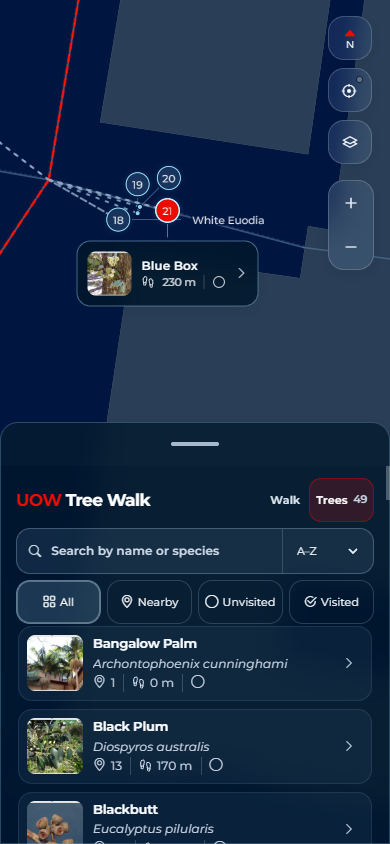
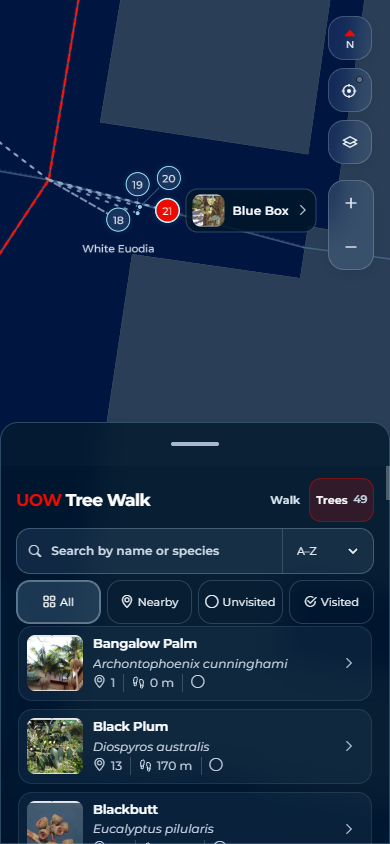
UI

Changed region(s): [[0.1846, 0.2773, 0.6769, 0.3697], [0.4615, 0.2156, 0.7385, 0.2773], [0.7692, 0.2464, 0.8, 0.2773]]

diff --git a/src/glass.css b/src/glass.css
@@ -21,7 +21,7 @@ html { color-scheme:dark; }
 body.outdoor,body[data-map-theme=aerial] {
     --glass-filter:blur(12px) saturate(120%) brightness(.30);
 }
-#ui-panel,#map-tools,#walk-menu,.tree-focus-label,#arrival,#app-status,
+#ui-panel,#map-tools,#walk-menu,#arrival,#app-status,
 .map-controls>:is(.icon-btn,#resume-follow),.map-zoom-group {
     background:var(--glass-fill); border:1px solid var(--glass-edge);
     border-radius:var(--radius); box-shadow:var(--glass-shadow);
@@ -35,8 +35,8 @@ body.outdoor,body[data-map-theme=aerial] {
 .sheet-layout #map-tools { border-radius:var(--radius); }
 #ui-panel .panel-header { background:rgba(0,22,65,.32); }
 .sheet-layout #drag-handle { background:#a8b9ce; }
-#walk-home .eyebrow { color:#d4e0ed; font-weight:500; }
-#walk-home h1 { color:var(--text-main); }
+.walk-trees-header .eyebrow { color:#d4e0ed; font-weight:500; margin:0 0 .375rem; }
+.walk-trees-header h1 { color:var(--text-main); }
 .home-description,.walk-note { color:var(--text-muted); }
 /* Flatten the existing estimate wrapper visually, retaining every metric's
    accessible name. Flex wrapping accommodates mobile and enlarged text. */
@@ -133,17 +133,10 @@ input::placeholder { color:var(--text-muted); opacity:1; }
 .compact-map .map-zoom-group .icon-btn:first-child { border-radius:var(--radius) 0 0 var(--radius); }
 .compact-map .map-zoom-group .icon-btn:last-child { border-radius:0 var(--radius) var(--radius) 0; }
 .map-controls button::after { background:rgba(0,22,65,.78); border-radius:.875rem; border-color:var(--glass-edge); }
-.tree-focus-label:is(:hover,:active) { background:var(--glass-hover); }
-.tree-focus-label { padding:.375rem .625rem; border-radius:.875rem; text-align:start; }
-.focus-label-content { display:grid; gap:.125rem; min-inline-size:0; }
-.focus-label-name { font-size:.765625rem; line-height:1.3; font-weight:600; }
-.tree-focus-label .marker-stats { display:flex; flex-wrap:wrap; align-items:center; gap:.25rem .5rem; margin:0; padding:0; background:transparent; color:rgba(255,255,255,.78); font-size:.65625rem; font-weight:500; line-height:1.25; }
-.marker-stat { display:inline-flex; align-items:center; gap:.5rem; white-space:nowrap; }
-.marker-stat+.marker-stat { border-inline-start:1px solid rgba(255,255,255,.2); padding-inline-start:.5rem; }
-.marker-stats .lucide-icon { inline-size:.8125rem; block-size:.8125rem; }
-.metric-compact { display:none; }
-.tree-focus-label[data-compact=true] .metric-full { display:none; }
-.tree-focus-label[data-compact=true] .metric-compact { display:inline; }
+.tree-focus-label:is(:hover,:active) { background:rgba(8,35,61,.94); }
+.tree-focus-label { gap:.5rem; padding:.25rem .375rem; border:1px solid rgba(154,200,229,.28); border-radius:.75rem; background:rgba(0,22,41,.85); color:var(--text-main); box-shadow:0 .125rem .5rem rgba(0,10,30,.1); text-align:start; }
+.focus-label-content { display:block; flex:1 1 auto; min-inline-size:0; max-inline-size:clamp(8rem,38vi,15rem); }
+.focus-label-name { display:block; overflow:hidden; text-overflow:ellipsis; white-space:nowrap; font-size:.765625rem; line-height:1.3; font-weight:600; }
 .lucide-tree-pine { -webkit-mask:url(icons/tree-pine.svg) center/contain no-repeat; mask:url(icons/tree-pine.svg) center/contain no-repeat; }
 .lucide-circle-check { -webkit-mask:url(icons/circle-check.svg) center/contain no-repeat; mask:url(icons/circle-check.svg) center/contain no-repeat; }
 .lucide-circle { -webkit-mask:url(icons/circle.svg) center/contain no-repeat; mask:url(icons/circle.svg) center/contain no-repeat; }
@@ -226,14 +219,12 @@ body[data-walk-view=browse] #ui-panel {
     -webkit-backdrop-filter:blur(12px) saturate(120%); backdrop-filter:blur(12px) saturate(120%);
 }
 body[data-walk-view=browse] .panel-header { display:none; }
-.browser-topline { display:flex; flex-wrap:wrap; align-items:center; justify-content:space-between; gap:.75rem; }
-.browser-brand { flex:1 1 9rem; min-inline-size:0; }
-.browser-brand h2 { margin:0; color:#fff; font-size:clamp(.875rem,4.375cqi,1.3125rem); line-height:1.3; letter-spacing:-.035em; }
-.browser-brand h2>span { color:#ed0a00; }
-#walk-home h1>span { color:#ed0a00; }
-#home-navigation-slot:not(:empty)~#browse-trees { display:none; }
+.walk-trees-header { display:flex; flex-wrap:wrap; align-items:center; justify-content:space-between; gap:.75rem; }
+.walk-trees-brand { flex:1 1 9rem; min-inline-size:0; }
+.walk-trees-header h1>span { color:#ed0a00; }
+#home-header-slot:not(:empty)~#browse-trees { display:none; }
 body[data-walk-view=home] #browser-tree-total { display:none; }
-.browser-brand p { margin:.375rem 0 0; font-size:.765625rem; color:#c6d8e5; line-height:1.4; }
+.walk-trees-header .home-description { margin:.375rem 0 0; color:#c6d8e5; }
 .browser-navigation { display:flex; gap:.375rem; }
 .browser-navigation button { min-inline-size:var(--touch); min-block-size:var(--touch); padding:.375rem .625rem; background:transparent; border:1px solid transparent; border-radius:.75rem; color:#dce9f2; font-size:.765625rem; font-weight:600; }
 .browser-navigation button:hover { background:rgba(255,255,255,.07); }
@@ -272,16 +263,10 @@ body[data-walk-view=browse] #stops-list .tree-card { grid-template-columns:clamp
 .card-details:hover { background:rgba(255,255,255,.06); color:#fff; }
 .map-controls .map-compass { display:flex; flex-direction:column; justify-content:center; align-items:center; gap:0; font-size:.6015625rem; line-height:1; }
 .map-compass>.bi { color:#ed0a00; font-size:.875rem; transform:rotate(var(--map-bearing,0deg)); transition:transform .18s ease; }
-.focus-label-media { display:grid; flex:none; inline-size:clamp(2.75rem,8vi,3.25rem); aspect-ratio:1; border-radius:.5rem; overflow:hidden; background:rgba(160,193,210,.12); }
+.focus-label-media { display:grid; flex:none; inline-size:clamp(2rem,6vi,2.375rem); aspect-ratio:1; border-radius:.5rem; overflow:hidden; background:rgba(160,193,210,.12); }
 .focus-label-media>* { grid-area:1/1; }
 .focus-label-media>.bi { place-self:center; color:#b7d1be; }
 .focus-label-media img { inline-size:100%; block-size:100%; object-fit:cover; }
-.tree-focus-label[data-preview=true] { gap:.625rem; padding:.625rem; border:1px solid rgba(154,200,229,.45); background:rgba(0,22,41,.85); }
-.tree-focus-label[data-preview=true] .focus-label-content { flex:1 1 auto; }
-.tree-focus-label[data-preview=true] .focus-label-name { overflow-wrap:anywhere; }
-.tree-focus-label[data-preview=true][data-compact=true] .marker-stat:first-child { display:none; }
-.tree-focus-label[data-preview=true][data-compact=true] .marker-stat:nth-child(2) { border-inline-start:0; padding-inline-start:0; }
-.tree-focus-label[data-preview=true][data-compact=true] .marker-stat:last-child .metric-compact { display:none; }
 .focus-label-chevron { flex:none; font-size:.765625rem; color:#c6d8e5; }
 @container browser-tools (max-width:22rem) {
     #browse-controls .filter-btn>.bi { display:none; }
@@ -292,10 +277,10 @@ body[data-walk-view=browse] #stops-list .tree-card { grid-template-columns:clamp
 @media (min-width:48rem) {
     .browser-navigation { flex-basis:100%; }
 }
-.sheet-layout .browser-brand { flex-basis:8rem; }
+.sheet-layout .walk-trees-brand { flex-basis:8rem; }
 .sheet-layout.browser-sort-embedded #browser-tree-total { display:inline; font-size:.65625rem; }
-.sheet-layout .browser-brand p { display:none; }
-.sheet-layout .browser-topline { gap:.375rem; }
+.sheet-layout .walk-trees-header .eyebrow { display:none; }
+.sheet-layout .walk-trees-header { gap:.375rem; }
 .sheet-layout .browser-navigation { flex-basis:auto; gap:.125rem; }
 .sheet-layout .browser-navigation button { padding:.25rem .375rem; font-size:.7109375rem; }
 .sheet-layout .browser-navigation .bi { display:none; }
@@ -316,10 +301,10 @@ body[data-walk-view=browse] #stops-list .tree-card { grid-template-columns:clamp
     .sheet-layout #browser-sort-slot select { inline-size:5.5rem; }
 }
 @supports not ((backdrop-filter:blur(1px)) or (-webkit-backdrop-filter:blur(1px))) {
-    body[data-walk-view=browse] #ui-panel,.tree-focus-label[data-preview=true] { background:#001629; }
+    body[data-walk-view=browse] #ui-panel,.tree-focus-label { background:#001629; }
 }
 @media (prefers-reduced-transparency:reduce) {
-    body[data-walk-view=browse] #ui-panel,.tree-focus-label[data-preview=true] { background:#001629; -webkit-backdrop-filter:none; backdrop-filter:none; }
+    body[data-walk-view=browse] #ui-panel,.tree-focus-label { background:#001629; -webkit-backdrop-filter:none; backdrop-filter:none; }
 }
 
 /* Compact planner: native disclosure and selects retain their existing IDs. */

diff --git a/src/map-view.js b/src/map-view.js
@@ -87,7 +87,7 @@
                     canvasContextAttributes:{antialias:false},fadeDuration:100,
                     style:{version:8,glyphs:GLYPHS,sources:{},layers:[{id:'background',type:'background',paint:{'background-color':'#001641'}}]}});
                 this.focusLabel=document.createElement('button');this.focusLabel.className='tree-focus-label';this.focusLabel.type='button';this.focusLabel.hidden=true;
-                this.focusLabel.innerHTML='<span class="focus-label-media" aria-hidden="true" hidden><i class="bi bi-tree"></i><img alt="" loading="lazy" decoding="async" width="160" height="160" hidden></span><span class="focus-label-content"><span class="focus-label-name"></span><span class="marker-stats" aria-hidden="true"></span></span><i class="focus-label-chevron bi bi-chevron-right" aria-hidden="true" hidden></i>';this.map.getContainer().append(this.focusLabel);
+                this.focusLabel.innerHTML='<span class="focus-label-media" aria-hidden="true"><i class="bi bi-tree"></i><img alt="" loading="lazy" decoding="async" width="160" height="160" hidden></span><span class="focus-label-content"><span class="focus-label-name"></span></span><i class="focus-label-chevron bi bi-chevron-right" aria-hidden="true"></i>';this.map.getContainer().append(this.focusLabel);
                 this.focusLabel.querySelector('img').addEventListener('error',event=>{event.target.hidden=true;});
                 this.focusLabel.addEventListener('click',event=>{event.stopPropagation();if(this.labelTree)(this.options.onTreePreview||this.options.onTreeClick)?.(this.labelTree.id);});
                 this.focusLabelObserver=new ResizeObserver(()=>this.scheduleFocusLabel());this.focusLabelObserver.observe(this.focusLabel);
@@ -256,26 +256,18 @@
             if(!tree||!this.ready||this.contextLost||this.unavailable){label.hidden=true;return;}
             this.labelTree=tree;
             const preview=this.browsing&&this.selectedId===tree.id;
-            label.dataset.preview=String(preview);label.querySelector('.focus-label-media').hidden=!preview;label.querySelector('.focus-label-chevron').hidden=!preview;
-            const photo=preview?this.options.getTreePreview?.(tree):null,photoSignature=photo?`${photo.src}|${photo.srcset}`:'';
+            label.dataset.preview=String(preview);
+            const photo=this.options.getTreePreview?.(tree),photoSignature=photo?`${photo.src}|${photo.srcset}`:'';
             if(this.focusPhotoSignature!==photoSignature){
                 this.focusPhotoSignature=photoSignature;const img=label.querySelector('img');
                 img.hidden=!photo?.src;
-                if(photo?.src){if(photo.srcset)img.srcset=photo.srcset;else img.removeAttribute('srcset');img.sizes='3.25rem';img.src=photo.src;}
+                if(photo?.src){if(photo.srcset)img.srcset=photo.srcset;else img.removeAttribute('srcset');img.sizes='2.375rem';img.src=photo.src;}
                 else {img.removeAttribute('src');img.removeAttribute('srcset');}
             }
             if(label.dataset.treeId!==String(tree.id)){label.querySelector('.focus-label-name').textContent=tree.name;label.title=tree.name;label.dataset.treeId=tree.id;}
             const stats=this.options.getTreeStats?.(tree,this.stopOrder.get(tree.id)||0)||[],signature=JSON.stringify(stats);
             if(this.focusStatsSignature!==signature||this.focusStatsTree!==tree.id){
                 this.focusStatsSignature=signature;this.focusStatsTree=tree.id;
-                const row=label.querySelector('.marker-stats'),fragment=document.createDocumentFragment();
-                for(const stat of stats){
-                    const item=document.createElement('span');item.className='marker-stat';item.title=stat.description;
-                    const icon=document.createElement('i');icon.className=`lucide-icon lucide-${stat.icon}`;icon.setAttribute('aria-hidden','true');item.append(icon);
-                    for(const [kind,value]of [['full',stat.full],['compact',stat.compact]]){const text=document.createElement('span');text.className=`metric-${kind}`;text.textContent=value;item.append(text);}
-                    fragment.append(item);
-                }
-                row.replaceChildren(fragment);row.hidden=!stats.length;
                 label.setAttribute('aria-label',`View tree: ${tree.name}${stats.length?'. '+stats.map(s=>s.description).join('. '):''}`);
             }
             const canvas=this.map.getContainer(),rem=parseFloat(getComputedStyle(canvas).fontSize)||16,v=window.visualViewport;
@@ -289,7 +281,7 @@
             const scene=this.projectedAnnotations(),radius=this.markerRadius||Layout.markerRadius(this.map.getZoom(),canvas.clientWidth);
             obstacles.push(...scene.markers.filter(p=>p.id!==tree.id&&(this.displayMarkerIds?.has(p.id)||this.displayExploreIds?.has(p.id))).map(p=>Layout.markerBox(p,radius+3)),...(this.clusterFeatures||[]).map(f=>Layout.markerBox(this.map.project(f.coordinates),f.radius+4)));
             if(!ignoreCallouts)obstacles.push(...(this.data.get('uow-stop-labels')?.data.features||[]).map(f=>Layout.markerBox(this.map.project(f.geometry.coordinates),radius+4)));
-            // The two-line focus label needs more clearance than a native name.
+            // The focus card needs more clearance than a native name.
             // Bound the search by its measured height and the available viewport.
             const gap=Math.max(18,rem),reach=Math.min(viewport.right-viewport.left,viewport.bottom-viewport.top,size.height*3);
             const position=placeFocusLabel(anchor,size,viewport,obstacles,gap,scene.segments,reach);

diff --git a/index.html b/index.html
@@ -305,10 +305,12 @@
     <div class="panel-body">
         <section id="walk-summary" hidden tabindex="-1" aria-label="Walk summary"></section>
         <section id="walk-home" aria-label="Start a campus walk">
-            <div class="home-kicker"><p class="eyebrow">Wollongong campus</p></div>
-            <h1><span>UOW</span> Tree Walk</h1>
-            <p class="home-description">Explore the living campus.</p>
-            <div id="home-navigation-slot"></div>
+            <div id="home-header-slot">
+                <header id="walk-trees-header" class="walk-trees-header">
+                    <div class="walk-trees-brand"><p class="eyebrow">Wollongong campus</p><h1><span>UOW</span> Tree Walk</h1><p class="home-description">Explore the living campus.</p></div>
+                    <nav class="browser-navigation" aria-label="Walk and trees"><button id="close-browser" class="symbol-action" aria-label="Back to walk" title="Back to walk" aria-current="page"><i class="bi bi-signpost-split" aria-hidden="true"></i><span>Walk</span></button><button id="browser-trees-tab" class="symbol-action"><i class="bi bi-tree" aria-hidden="true"></i><span>Trees</span><small id="browser-tree-total" aria-hidden="true"></small></button></nav>
+                </header>
+            </div>
             <div class="walk-overview"><p id="home-walk-type" class="selected-walk">Quick Walk</p><p class="walk-note" id="route-estimate">Preparing your walk&hellip;</p></div>
             <button class="walk-btn primary home-start symbol-action" id="start-walk" disabled><i class="bi bi-play-fill" aria-hidden="true"></i><span>Start walk</span></button>
             <p id="saved-walk-note" class="walk-note" hidden>Progress saved on this device.</p>
@@ -335,7 +337,7 @@
             <button id="walk-review" class="text-btn symbol-action" hidden aria-label="View walk summary"><i class="bi bi-bar-chart" aria-hidden="true"></i><span>Summary</span></button>
         </section>
         <div id="browse-controls" hidden>
-            <div class="browser-topline"><div class="browser-brand"><h2><span>UOW</span> Tree Walk</h2><p>Explore the campus tree collection</p></div><nav class="browser-navigation" aria-label="Walk and trees"><button id="close-browser" class="symbol-action" aria-label="Back to walk" title="Back to walk"><i class="bi bi-signpost-split" aria-hidden="true"></i><span>Walk</span></button><button id="browser-trees-tab" class="symbol-action" aria-current="page"><i class="bi bi-tree" aria-hidden="true"></i><span>Trees</span><small id="browser-tree-total" aria-hidden="true"></small></button></nav></div>
+            <div id="browser-header-slot"></div>
             <div class="list-tools">
                 <div class="browse-search"><i class="bi bi-search" aria-hidden="true"></i><label class="field"><span class="sr-only">Find a tree by common or scientific name</span><input id="tree-search" type="search" placeholder="Search by name or species" autocomplete="off"></label><span id="browser-sort-slot"></span></div>
                 <div class="filters" role="group" aria-label="Filter trees">

diff --git a/src/midnight.css b/src/midnight.css
@@ -22,11 +22,10 @@ button,input,select { font-weight:500; }
 .walk-btn.primary:hover { background:#c90c05; filter:none; }
 .walk-btn:hover,.detail-action:hover { filter:none; background:var(--card-bg-hover); }
 .text-btn { color:var(--text-main); font-size:.765625rem; }
-.home-kicker { display:flex; align-items:center; justify-content:space-between; gap:.5rem; }
-.eyebrow,.home-kicker .eyebrow { font-size:.65625rem; font-weight:650; letter-spacing:.14em; text-transform:uppercase; color:var(--text-muted); }
+.eyebrow { font-size:.65625rem; font-weight:650; letter-spacing:.14em; text-transform:uppercase; color:var(--text-muted); }
 body[data-walk-view="home"] .panel-header { display:none; }
 #walk-home { gap:clamp(.45rem,1.8cqi,.8rem); padding-block:.1rem .3rem; }
-#walk-home h1 { max-inline-size:100%; font-weight:700; font-size:clamp(1.44375rem,6.5625cqi,2.05625rem); letter-spacing:-.045em; line-height:1.12; margin:.15rem 0; }
+.walk-trees-header h1 { max-inline-size:100%; font-weight:700; font-size:clamp(1.44375rem,6.5625cqi,2.05625rem); letter-spacing:-.045em; line-height:1.12; margin:.15rem 0; }
 .home-description { font-size:clamp(.765625rem,3.4125cqi,.875rem); line-height:1.7; color:var(--text-muted); }
 .walk-overview { padding-block:.6rem; border-block:1px solid var(--border-subtle); display:grid; gap:.4rem; }
 .selected-walk { margin:0; color:var(--text-main); font-size:.875rem; font-weight:650; }
@@ -144,9 +143,7 @@ body.outdoor .preview-stop:hover { color:var(--uow-bright-blue); }
 body.outdoor[data-gps-quality="weak"] .nav-status { color:#805000; }
 @container (min-width:36rem) {
     .sheet-layout #walk-home { grid-template-columns:minmax(0,1fr) minmax(0,1fr); gap:.4rem 1.5rem; align-items:center; }
-    .sheet-layout .home-kicker { grid-column:1; grid-row:1; }
-    .sheet-layout #walk-home h1 { grid-column:1; grid-row:2; font-size:clamp(1.575rem,4.375cqi,2.31875rem); }
-    .sheet-layout .home-description { grid-column:1; grid-row:3; }
+    .sheet-layout #home-header-slot { grid-column:1; grid-row:1 / span 3; align-self:start; }
     .sheet-layout .walk-overview { grid-column:2; grid-row:1; }
     .sheet-layout #start-walk { grid-column:2; grid-row:2; }
     .sheet-layout .walk-planner { grid-column:2; grid-row:3; padding:0; margin:0; border:0; }

diff --git a/src/walk-experience.js b/src/walk-experience.js
@@ -40,9 +40,9 @@ function showDataError(){
 function applyWalkView(){
     document.body.dataset.walkView=walkView;
     document.body.dataset.walkStatus=walk.status;
-    const navigation=document.querySelector('.browser-navigation'),navigationSlot=walkView==='browse'?document.querySelector('.browser-topline'):$('home-navigation-slot');
+    const header=$('walk-trees-header'),navigation=header.querySelector('.browser-navigation'),headerSlot=walkView==='browse'?$('browser-header-slot'):$('home-header-slot');
     const navigationFocus=navigation.contains(document.activeElement)?document.activeElement:null;
-    if(navigation.parentElement!==navigationSlot)navigationSlot.append(navigation);
+    if(header.parentElement!==headerSlot)headerSlot.append(header);
     for(const [id,selected]of [['close-browser',walkView!=='browse'],['browser-trees-tab',walkView==='browse']]){
         if(selected)$(id).setAttribute('aria-current','page');else $(id).removeAttribute('aria-current');
     }
@@ -863,6 +863,7 @@ adaptiveObserver.observe($('map'));
 for(const id of ['map-tools','walk-menu','custom-panel'])adaptiveObserver.observe($(id));
 adaptiveObserver.observe(document.querySelector('.detail-nav'));
 adaptiveObserver.observe($('walk-home'));
+adaptiveObserver.observe($('walk-trees-header'));
 adaptiveObserver.observe($('browse-controls'));adaptiveObserver.observe($('browser-list-meta'));
 map?.on('style.load',()=>requestAnimationFrame(scheduleLayout));
 $('route-options').addEventListener('toggle',scheduleLayout);

diff --git a/src/editorial.css b/src/editorial.css
@@ -381,12 +381,12 @@ body.outdoor[data-gps-quality=weak] .panel-header .nav-status { color:#f2cd9b; }
     .arrival-setting .setting-label>.lucide-icon { display:none; }
 }
 #walk-home,.sheet-layout #walk-home { gap:.375rem; }
-#walk-home h1,.sheet-layout #walk-home h1 { font-size:clamp(1.09375rem,4.375cqi,1.421875rem); }
+.walk-trees-header h1,.sheet-layout .walk-trees-header h1 { font-size:clamp(1.09375rem,4.375cqi,1.421875rem); }
 @media (min-width:48rem) {
     body:not(.sheet-layout) { --space:1.25rem; }
     body:not(.sheet-layout)[data-walk-view=home] #ui-panel { height:auto; max-block-size:calc(var(--viewport-height) - 2 * var(--space)); }
     body:not(.sheet-layout) #walk-home { gap:.75rem; }
-    body:not(.sheet-layout) #walk-home h1 { font-size:clamp(1.3125rem,6.125cqi,1.75rem); }
+    body:not(.sheet-layout) .walk-trees-header h1 { font-size:clamp(1.3125rem,6.125cqi,1.75rem); }
     body:not(.sheet-layout) .home-description { font-size:.8203125rem; }
     body:not(.sheet-layout) .walk-overview { padding:.75rem; gap:.5rem; border-radius:.75rem; background:#f0f2f6; }
     body:not(.sheet-layout) #route-estimate { flex-wrap:nowrap; gap:clamp(.5rem,2cqi,.875rem); white-space:nowrap; }

diff --git a/src/walk.css b/src/walk.css
@@ -752,7 +752,7 @@ body.outdoor .progress-fill {
 .text-btn:hover { background:var(--card-bg); }
 #walk-home { display:grid; gap:.5rem; padding-block:.25rem; }
 .eyebrow { color:var(--text-muted); font-size:.765625rem; margin:0; }
-#walk-home h1 { font-size:clamp(1.3125rem,6.125cqi,1.75rem); line-height:1.2; margin:0; letter-spacing:-.025em; }
+.walk-trees-header h1 { font-size:clamp(1.3125rem,6.125cqi,1.75rem); line-height:1.2; margin:0; letter-spacing:-.025em; }
 .home-description { margin:0; color:var(--text-muted); max-inline-size:32ch; }
 .home-start { inline-size:100%; font-size:.875rem; padding:.9rem; margin-block:.25rem; }
 .walk-planner { display:block; padding:0; margin:0; border:0; }
